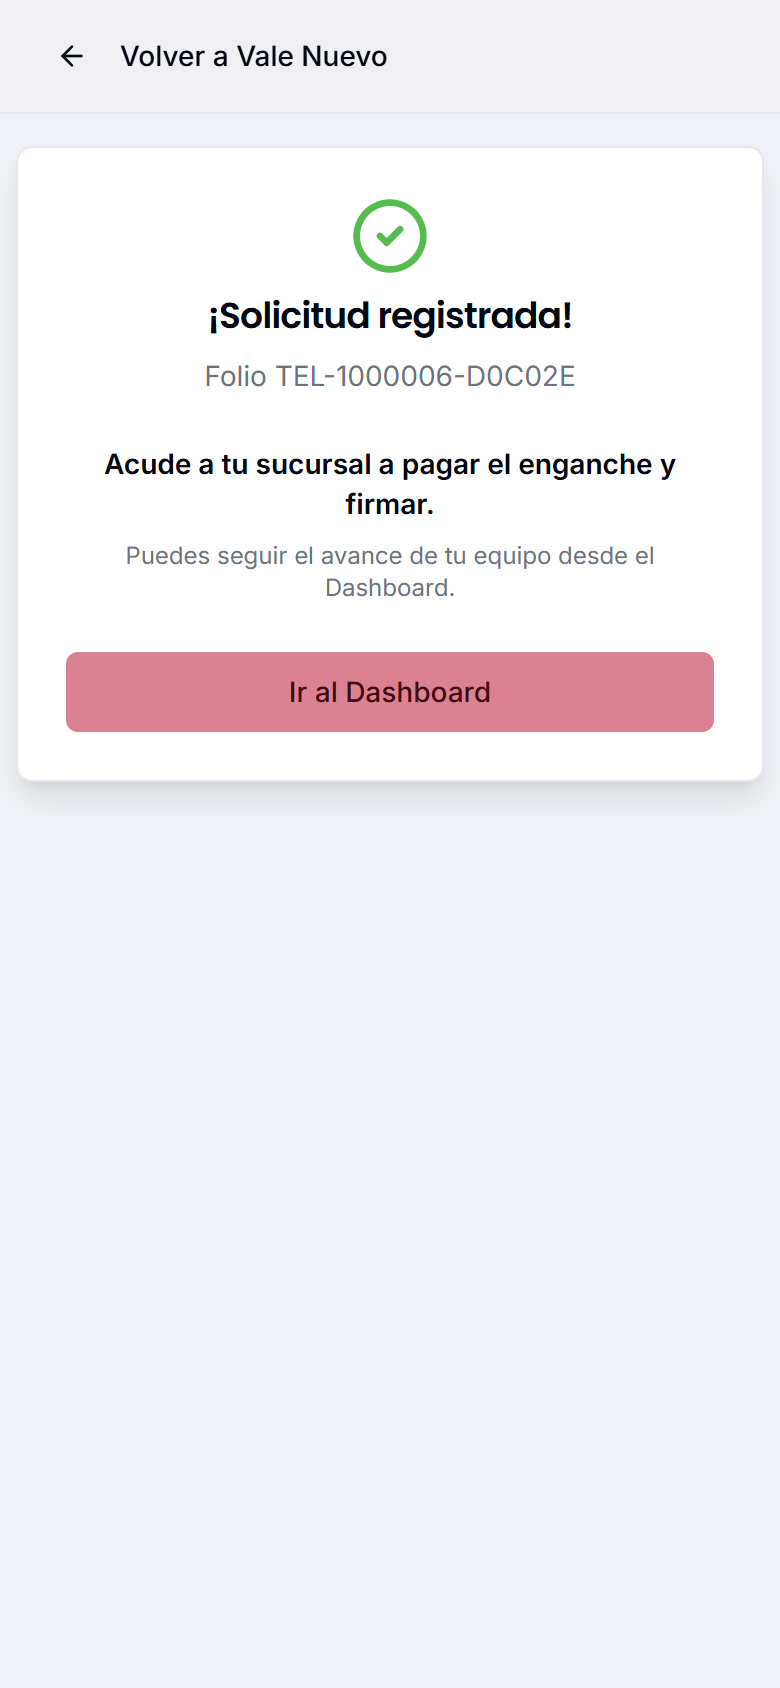
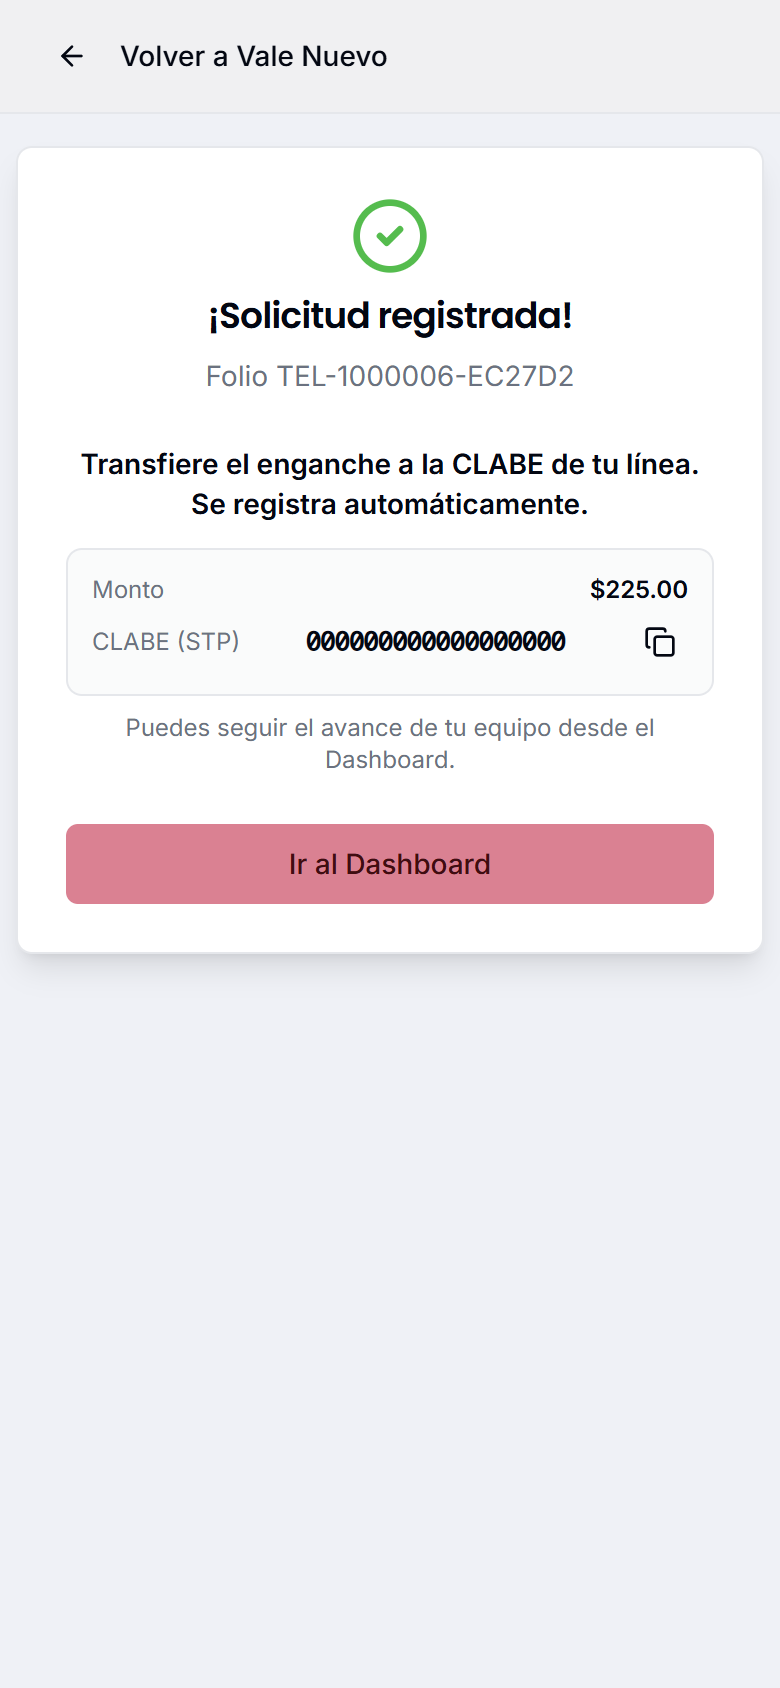
Pay the phone down payment by transfer to the line's CLABE
The down payment is paid by SPEI to the same CLABE as the credit line and is
registered automatically, so the confirmation now shows the amount and CLABE
instead of sending the associate to a branch.

Changed region(s): [[0.0308, 0.2156, 0.9846, 0.5545], [0.1231, 0.2464, 0.2154, 0.2773]]

diff --git a/src/components/phone-offer.tsx b/src/components/phone-offer.tsx
@@ -3,7 +3,7 @@
 import { useActionState, useState } from 'react';
 import { useFormStatus } from 'react-dom';
 import Link from 'next/link';
-import { AlertCircle, CheckCircle2, Info, Loader2, ShieldCheck, Smartphone } from 'lucide-react';
+import { AlertCircle, Check, CheckCircle2, Copy, Info, Loader2, ShieldCheck, Smartphone } from 'lucide-react';
 
 import { requestPhone } from '@/app/actions';
 import type { PhoneOfferOption } from '@/lib/types';
@@ -22,11 +22,11 @@ type State = {
 };
 const initialState: State = { message: '' };
 
-export function PhoneOfferView({ option }: { option: PhoneOfferOption }) {
+export function PhoneOfferView({ option, stpClabe }: { option: PhoneOfferOption; stpClabe?: string }) {
   const [state, formAction] = useActionState(requestPhone, initialState);
 
   if (state.success && state.folio) {
-    return <RequestConfirmation folio={state.folio} />;
+    return <RequestConfirmation folio={state.folio} downPayment={option.offer?.engancheMonto ?? 0} stpClabe={stpClabe} />;
   }
 
   if (!option.available) {
@@ -96,7 +96,7 @@ function OfferForm({
           </div>
 
           <div className="rounded-lg border-2 border-indigo-300 bg-indigo-50 p-3 text-center">
-            <p className="text-xs text-indigo-700">Enganche (se paga en sucursal)</p>
+            <p className="text-xs text-indigo-700">Enganche (por transferencia a la CLABE de tu línea)</p>
             <p className="font-headline text-2xl font-bold text-indigo-900" data-testid="phone-down-payment">
               {formatCurrency(offer.engancheMonto)}
             </p>
@@ -191,7 +191,16 @@ function SubmitButton({ disabled }: { disabled: boolean }) {
   );
 }
 
-function RequestConfirmation({ folio }: { folio: string }) {
+function RequestConfirmation({ folio, downPayment, stpClabe }: { folio: string; downPayment: number; stpClabe?: string }) {
+  const [copied, setCopied] = useState(false);
+  const copyClabe = async () => {
+    if (!stpClabe) return;
+    try {
+      await navigator.clipboard.writeText(stpClabe);
+      setCopied(true);
+    } catch {}
+  };
+
   return (
     <Card className="shadow-lg" data-testid="phone-request-confirmation">
       <CardHeader className="items-center text-center">
@@ -200,7 +209,24 @@ function RequestConfirmation({ folio }: { folio: string }) {
         <CardDescription>Folio {folio}</CardDescription>
       </CardHeader>
       <CardContent className="text-center text-sm">
-        <p className="font-semibold">Acude a tu sucursal a pagar el enganche y firmar.</p>
+        <p className="font-semibold">Transfiere el enganche a la CLABE de tu línea. Se registra automáticamente.</p>
+        <div className="mt-3 rounded-lg border bg-muted/40 p-3 text-left text-xs" data-testid="phone-down-payment-transfer">
+          <p className="flex justify-between">
+            <span className="text-muted-foreground">Monto</span>
+            <span className="font-semibold">{formatCurrency(downPayment)}</span>
+          </p>
+          {stpClabe ? (
+            <div className="mt-1 flex items-center justify-between gap-2">
+              <span className="text-muted-foreground">CLABE (STP)</span>
+              <span className="font-mono font-semibold" data-testid="phone-clabe">{stpClabe}</span>
+              <Button type="button" size="icon" variant="ghost" className="h-7 w-7" onClick={copyClabe} aria-label="Copiar CLABE">
+                {copied ? <Check className="h-4 w-4 text-accent" /> : <Copy className="h-4 w-4" />}
+              </Button>
+            </div>
+          ) : (
+            <p className="mt-1 text-muted-foreground">Es la misma CLABE con la que pagas tu línea (Dashboard → Pagar Ahora).</p>
+          )}
+        </div>
         <p className="mt-2 text-xs text-muted-foreground">Puedes seguir el avance de tu equipo desde el Dashboard.</p>
       </CardContent>
       <CardFooter>

diff --git a/tests/e2e/02-solicitud.spec.ts b/tests/e2e/02-solicitud.spec.ts
@@ -14,7 +14,9 @@ test.describe('Solicitud del teléfono', () => {
     await page.getByLabel(/Acepto las condiciones/).check();
     await page.getByRole('button', { name: 'Solicitar' }).click();
     const confirmation = page.getByTestId('phone-request-confirmation');
-    await expect(confirmation).toContainText('Acude a tu sucursal a pagar el enganche y firmar.');
+    await expect(confirmation).toContainText('Transfiere el enganche a la CLABE de tu línea. Se registra automáticamente.');
+    await expect(confirmation.getByTestId('phone-down-payment-transfer')).toContainText('$225.00');
+    await expect(confirmation.getByTestId('phone-clabe')).toHaveText(/^\d{18}$/);
     await expect(confirmation).toContainText(/Folio TEL-1000006-[A-Z0-9]{6}/);
 
     await second.getByTestId('plan-12').click();
@@ -27,7 +29,7 @@ test.describe('Solicitud del teléfono', () => {
     const tracker = page.getByTestId('phone-tracker');
     await expect(tracker).toBeVisible();
     await expect(tracker.getByTestId('phone-tracker-current')).toHaveText(/Solicitado/);
-    await expect(tracker.getByTestId('phone-tracker-todo')).toContainText('Acude a tu sucursal a pagar el enganche y firmar.');
+    await expect(tracker.getByTestId('phone-tracker-todo')).toContainText('Transfiere el enganche a la CLABE de tu línea. Se registra automáticamente.');
 
     await page.goto('/vales/nuevo');
     await page.getByRole('button', { name: /Préstamo Personal/ }).click();

diff --git a/src/app/telefono/page.tsx b/src/app/telefono/page.tsx
@@ -3,6 +3,7 @@ import { redirect } from 'next/navigation';
 import { ArrowLeft } from 'lucide-react';
 
 import { auth } from '@/lib/auth';
+import { getAssociateDashboard } from '@/lib/data';
 import { getPhoneOfferOption } from '@/lib/phone';
 import { PhoneOfferView } from '@/components/phone-offer';
 import { Button } from '@/components/ui/button';
@@ -15,7 +16,12 @@ export default async function PhoneOfferPage() {
   }
 
   // Solo la UX: requestPhone vuelve a validar todo antes de crear la solicitud.
-  const option = await getPhoneOfferOption(associateNumber);
+  const [option, dashboard] = await Promise.all([
+    getPhoneOfferOption(associateNumber),
+    getAssociateDashboard(associateNumber),
+  ]);
+  // El enganche se transfiere a la misma CLABE de la línea; el sistema lo registra solo.
+  const stpClabe: string | undefined = dashboard?.paymentReferences?.stpClabe || undefined;
 
   return (
     <div className="flex min-h-screen flex-col bg-indigo-50/40">
@@ -31,7 +37,7 @@ export default async function PhoneOfferPage() {
       </header>
       <main className="w-full flex-grow">
         <div className="mx-auto w-full max-w-md px-2 py-4">
-          <PhoneOfferView option={option} />
+          <PhoneOfferView option={option} stpClabe={stpClabe} />
         </div>
       </main>
     </div>

diff --git a/src/components/phone-tracker.tsx b/src/components/phone-tracker.tsx
@@ -5,7 +5,7 @@ import { cn } from '@/lib/utils';
 import { Card, CardContent, CardHeader, CardTitle } from './ui/card';
 
 const STEPS: { status: Exclude<PhoneRequestStatus, 'CANCELADO'>; label: string; todo: string }[] = [
-  { status: 'SOLICITADO', label: 'Solicitado', todo: 'Acude a tu sucursal a pagar el enganche y firmar.' },
+  { status: 'SOLICITADO', label: 'Solicitado', todo: 'Transfiere el enganche a la CLABE de tu línea. Se registra automáticamente.' },
   { status: 'ENGANCHE_CONFIRMADO', label: 'Enganche confirmado', todo: 'Recibimos tu enganche. Estamos apartando tu equipo.' },
   { status: 'EN_PREPARACION', label: 'En preparación', todo: 'Estamos configurando tu Samsung PrestaGana. Te avisaremos cuando esté listo.' },
   { status: 'LISTO_PARA_RECOGER', label: 'Listo para recoger', todo: 'Tu equipo está listo. Recógelo en tu sucursal con tu INE.' },

diff --git a/tests/e2e/03-tracker-cobranza.spec.ts b/tests/e2e/03-tracker-cobranza.spec.ts
@@ -2,7 +2,7 @@ import { expect, test } from '@playwright/test';
 import { login } from './helpers';
 
 const TRACKER_CASES = [
-  { associate: '1000007', step: 'Solicitado', todo: 'pagar el enganche' },
+  { associate: '1000007', step: 'Solicitado', todo: 'Transfiere el enganche' },
   { associate: '1000008', step: 'Enganche confirmado', todo: 'Recibimos tu enganche' },
   { associate: '1000009', step: 'En preparación', todo: 'Estamos configurando' },
   { associate: '1000010', step: 'Listo para recoger', todo: 'Recógelo en tu sucursal' },

diff --git a/docs/specs/telefono-financiado.md b/docs/specs/telefono-financiado.md
@@ -40,7 +40,7 @@ Se documenta en `docs/api-contracts.md` y se simula en `src/lib/demo-api.ts`.
 ## 4. Experiencia (web)
 
 1. **Oferta dentro de Préstamo Personal.** En Vale Nuevo → "Préstamo Personal" se muestran dos opciones: **Efectivo** (el flujo actual) y **Samsung Galaxy A17** (tarjeta con imagen, precio y enganche). Si no es elegible o ya tiene solicitud o equipo, la opción se deshabilita con el motivo.
-2. **Pantalla de oferta:** una sola tarjeta de producto; comparativo de 2 columnas (12 vs 18 quincenas: pago quincenal y total a pagar); enganche destacado; recuadro: "Con este equipo tus vales solo se emiten desde él. Consultar saldo, pagar y soporte funcionan desde cualquier dispositivo."; reglas de mora en lenguaje simple; checkbox de aceptación y botón "Solicitar". La server action valida todo de nuevo y llama `POST telefono/solicitudes`. Confirmación: "Acude a tu sucursal a pagar el enganche y firmar".
+2. **Pantalla de oferta:** una sola tarjeta de producto; comparativo de 2 columnas (12 vs 18 quincenas: pago quincenal y total a pagar); enganche destacado; recuadro: "Con este equipo tus vales solo se emiten desde él. Consultar saldo, pagar y soporte funcionan desde cualquier dispositivo."; reglas de mora en lenguaje simple; checkbox de aceptación y botón "Solicitar". La server action valida todo de nuevo y llama `POST telefono/solicitudes`. Confirmación: el enganche se paga por transferencia SPEI a la misma CLABE de la línea y el sistema de PrestaGana lo registra automáticamente (la confirmación muestra la CLABE); no se acude a sucursal a pagar.
 3. **Tracker en el dashboard** (tarjeta solo si hay solicitud o equipo): Solicitado → Enganche confirmado → En preparación → Listo para recoger → Activo, con el paso actual resaltado y qué hacer.
 4. **Desglose de cobranza:** en "Situación Actual", el Monto a Pagar se desglosa en Vales y Teléfono (cuota X de Y, saldo). Con mora del teléfono, aviso escalonado (AVISO/GRACIA) con monto y botón Pagar. Pagar y soporte nunca se bloquean.
 5. **Emisión restringida** (cuando `emisionRestringida`):
